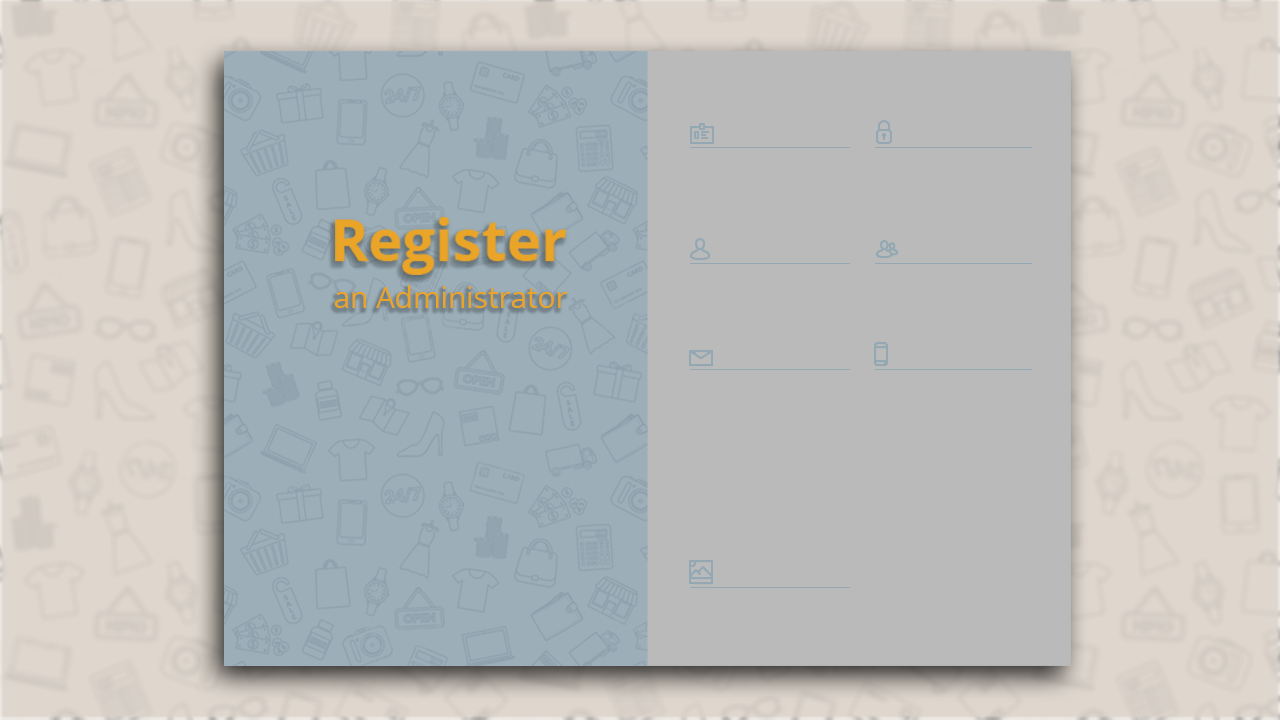
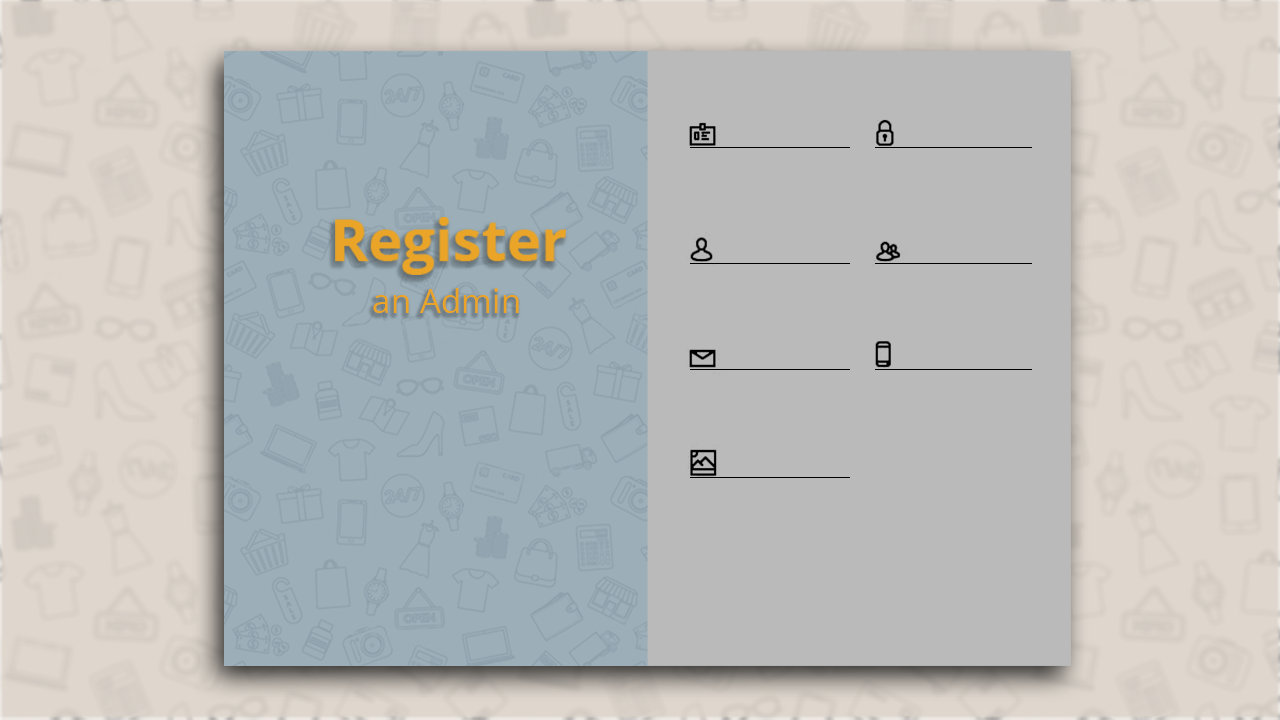
styled registerMenu (3)

diff --git a/src/main/resources/Styles.CSS b/src/main/resources/Styles.CSS
@@ -31,9 +31,17 @@
         -fx-background-image: url("design/newRegister.png");
     }
 
+    .registerSellerMenu {
+            -fx-background-image: url("design/newRegisterSeller.png");
+    }
+
+    .registerAdminMenu {
+            -fx-background-image: url("design/newRegisterAdmin.png");
+    }
+
     .myTextField{
       -fx-border-color: transparent;
       -fx-border-width: 0 0 0 0;
       -fx-background-color: transparent;
-      -fx-prompt-text-fill: #94a8b3;
+      -fx-prompt-text-fill: black;
     }
